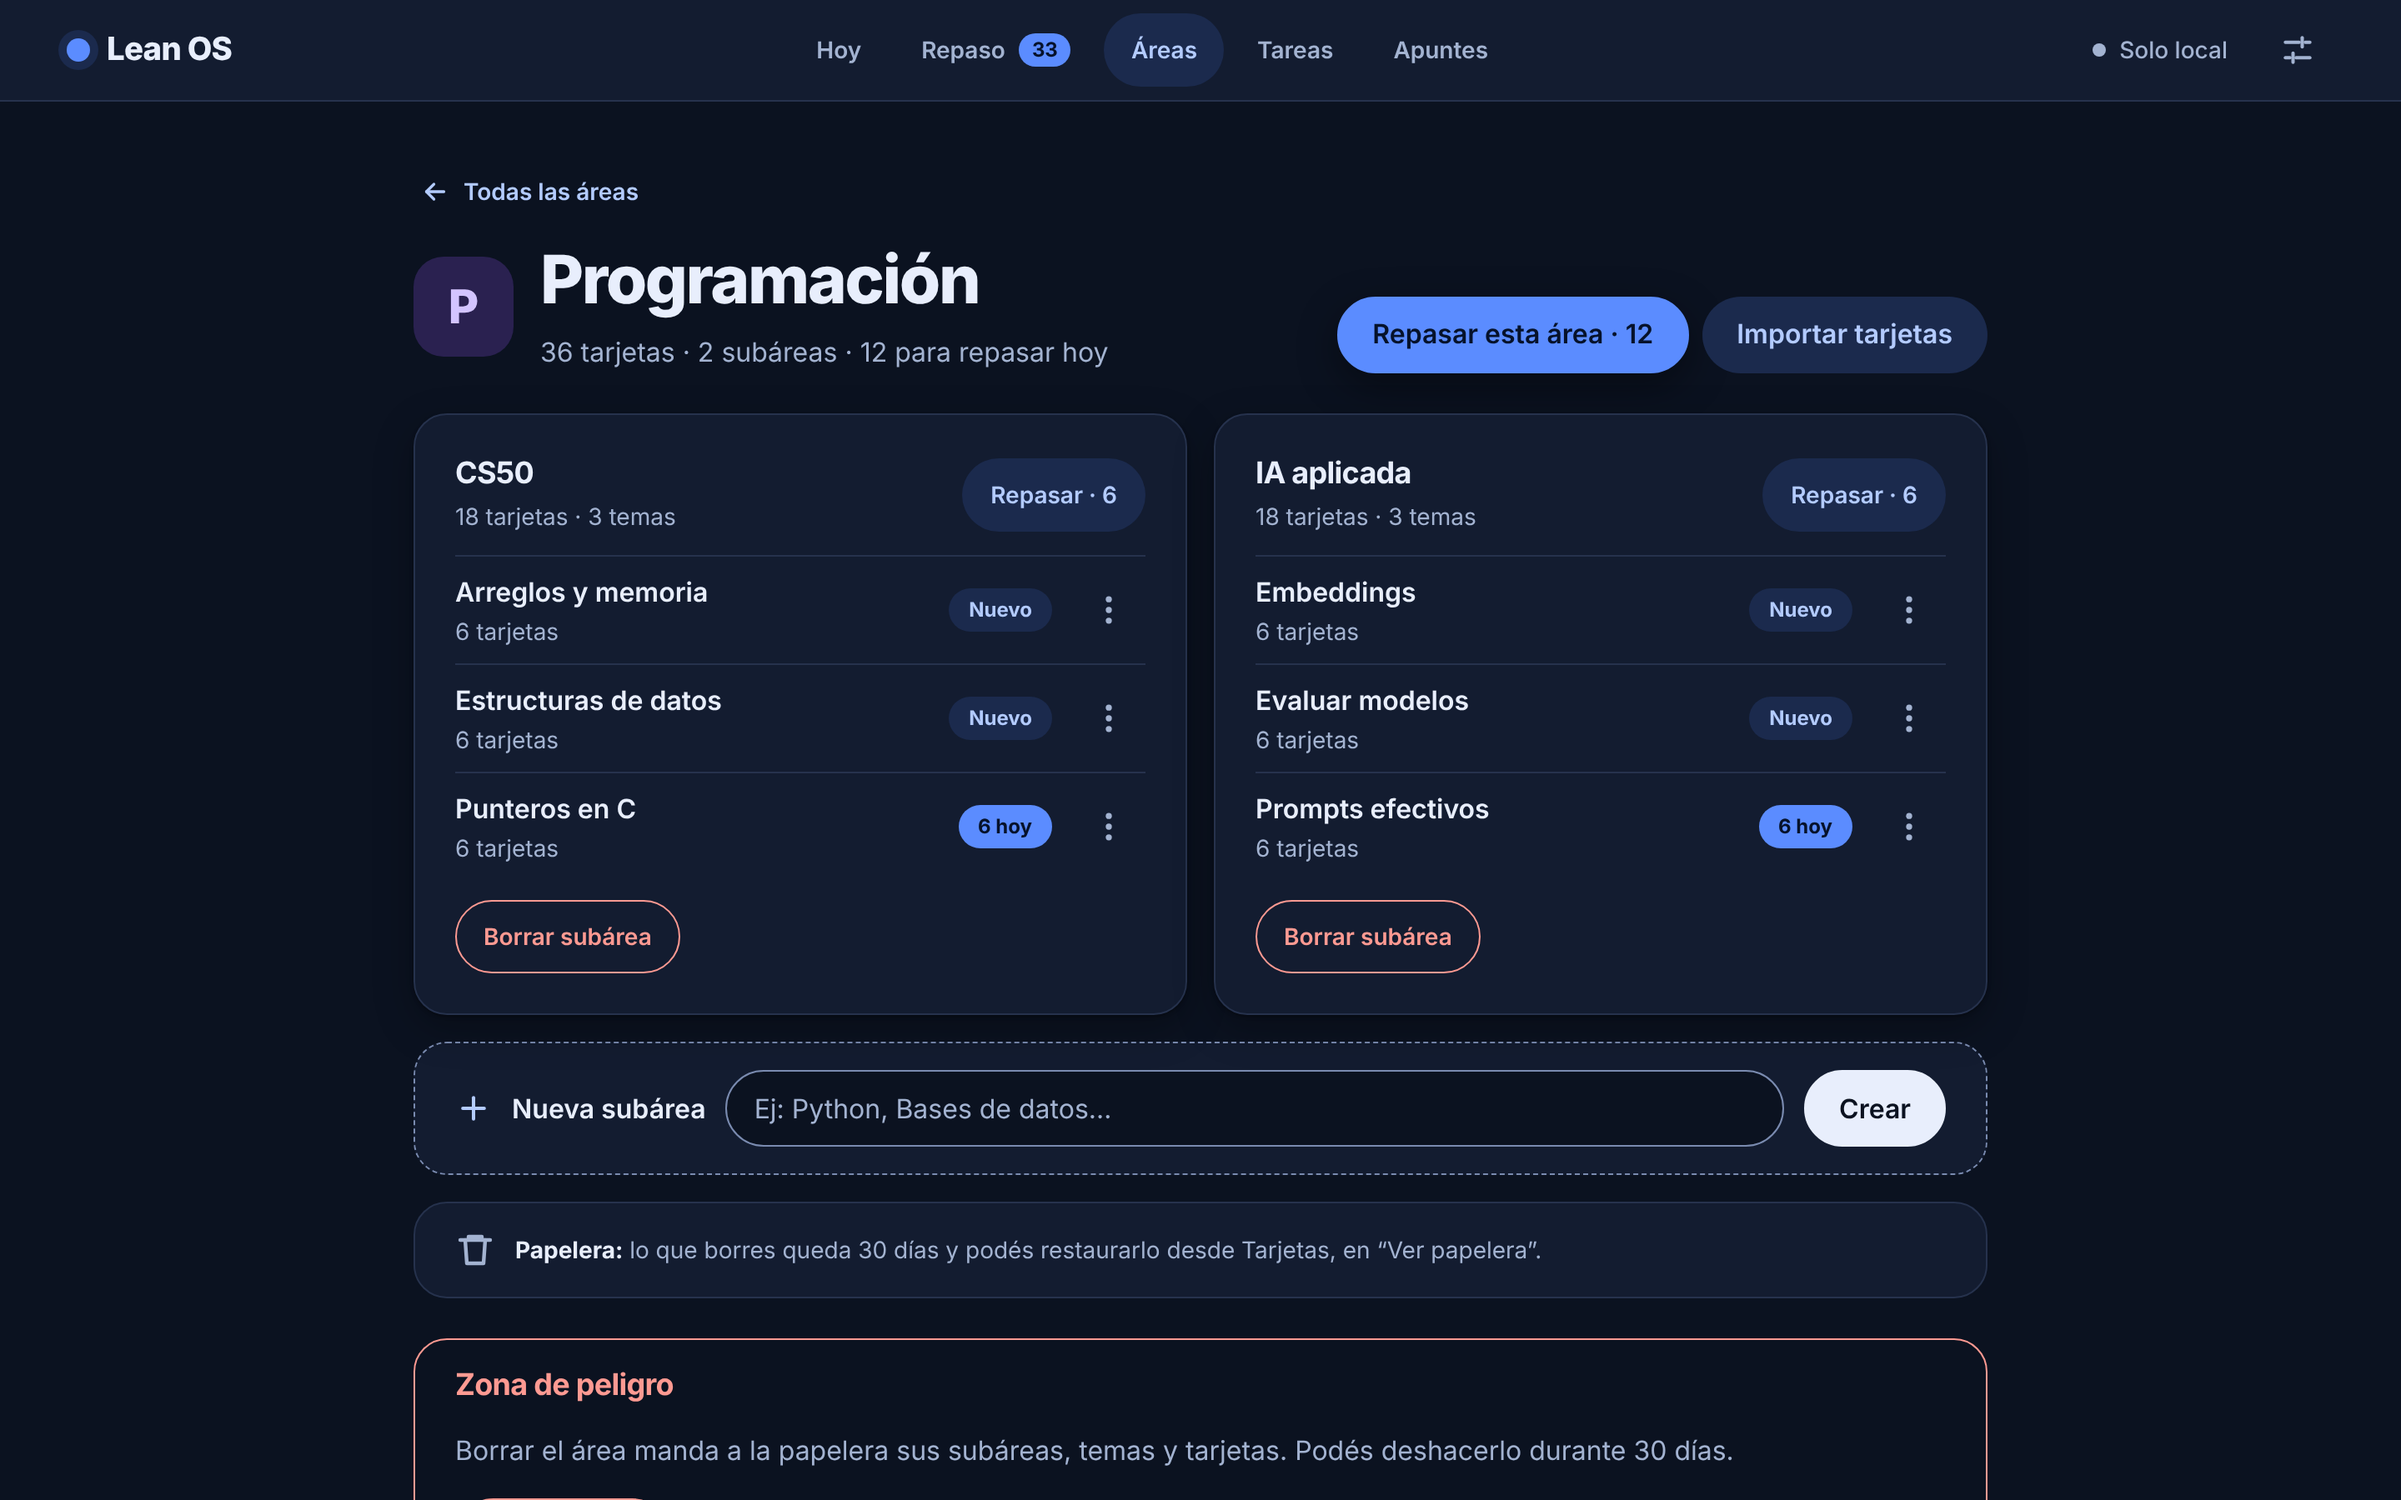
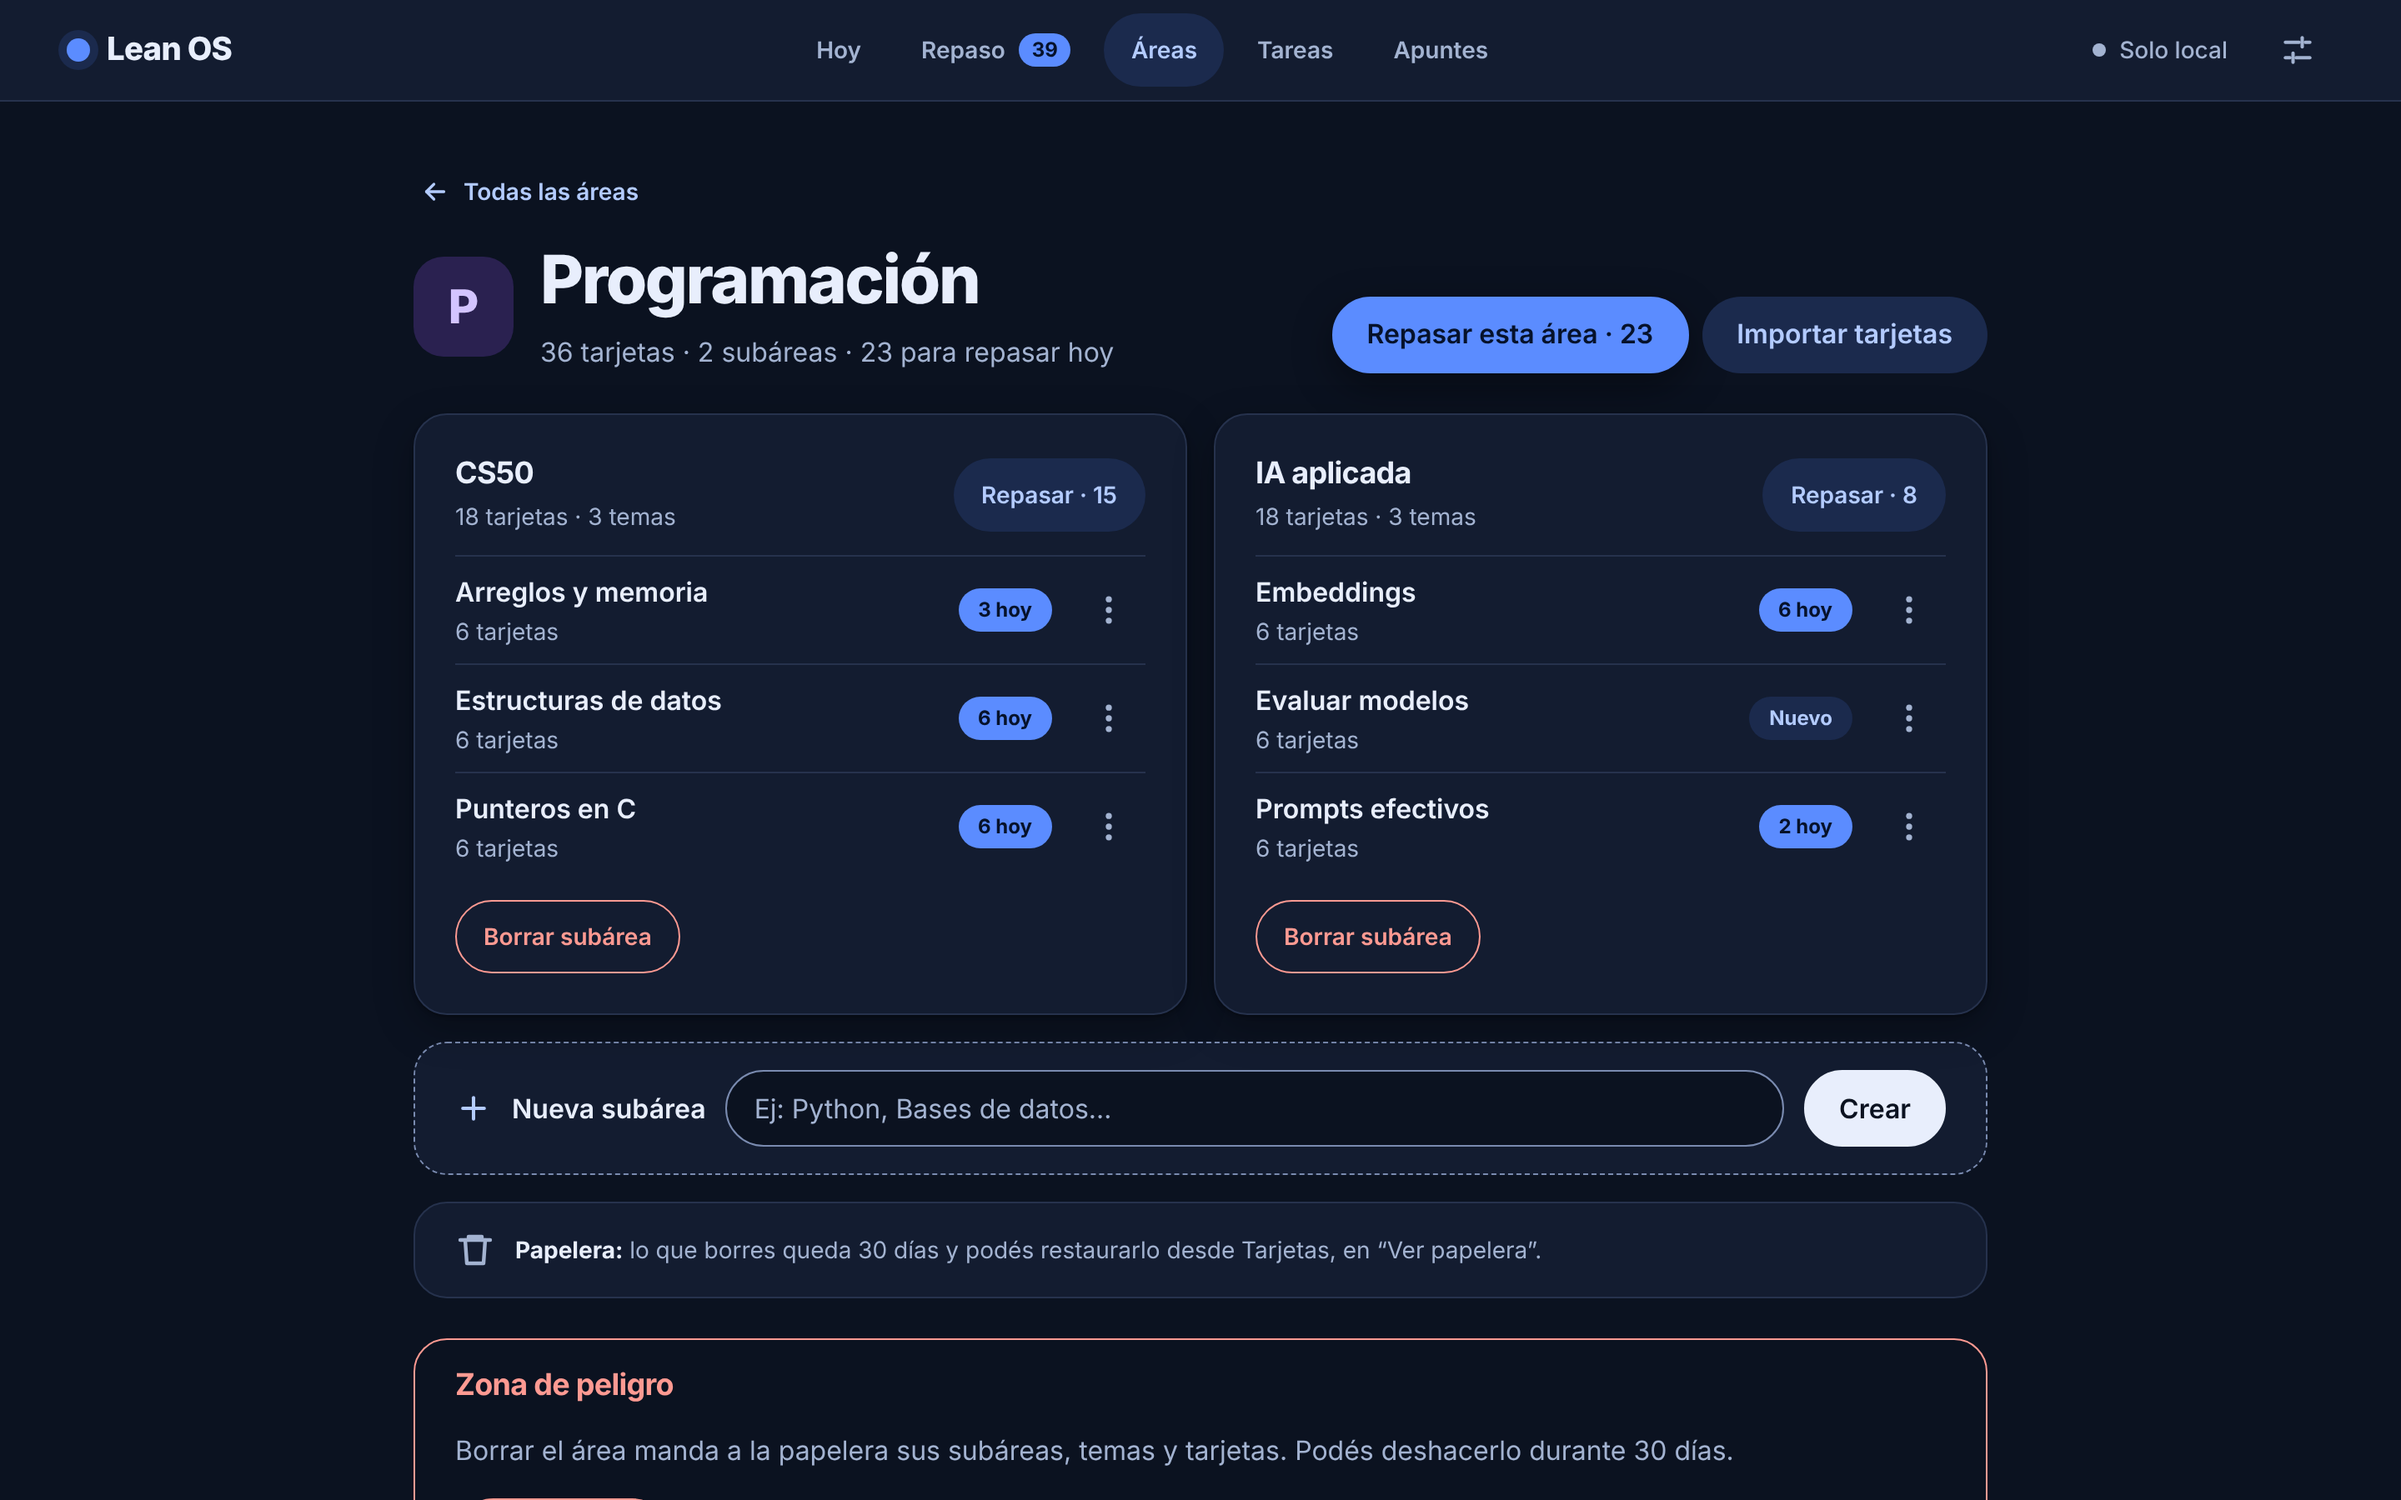
p-capturas ciclo 2: siembra con dominio variado y capturas con el diseño final
Claude-Session: https://claude.ai/code/session_0125b19gjcSwUR1phSHzgYem

diff --git a/scripts/capturas.ts b/scripts/capturas.ts
@@ -26,8 +26,8 @@ const TEMAS = ["claro", "oscuro"] as const;
 const PANTALLAS = ["hoy", "repaso", "areas", "area", "tarjetas", "tareas", "apuntes", "ajustes"] as const;
 const CON_CAPTURA = new Set<string>(["areas", "repaso", "area"]);
 const MINIMO = 44;
-/** Reloj fijo: los datos se importan y repasan el día 1 y se miran el día 2 (así hay tarjetas vencidas). */
-const DIA_SIEMBRA = "2026-11-12T12:00:00-03:00";
+/** Reloj fijo: los datos se importan en agosto, se repasan por meses y se miran el 23 de noviembre (así hay tarjetas dominadas, vencidas y nuevas). */
+const DIA_SIEMBRA = "2026-08-15T12:00:00-03:00";
 const DIA_VISTA = "2026-11-23T12:00:00-03:00";
 
 // ---------- datos de ejemplo ----------
@@ -137,7 +137,7 @@ const BLOQUES: Bloque[] = [
 // Se intercalan las áreas para que las tarjetas nuevas del día (tope diario) queden repartidas entre todas.
 const ORDEN = [0, 6, 8, 10, 3, 7, 9, 11, 1, 4, 2, 5];
 const JSON_IMPORTAR = ORDEN.map((i) => BLOQUES[i]!).map((b) => ({
-  tipo: "aprendizaje", fecha: "2026-11-12", area: b.area, tema: b.tema, resumen: b.resumen,
+  tipo: "aprendizaje", fecha: "2026-08-15", area: b.area, tema: b.tema, resumen: b.resumen,
   preguntas: b.preguntas.map(([p, r]) => ({ p, r, pista: "" })),
 }));
 
@@ -213,15 +213,38 @@ async function sembrar(p: Pagina, url: string, contexto: any): Promise<void> {
   await p.click("#importar-revisar");
   await p.click("#importar-confirmar");
   await p.waitForSelector("#importar-informe");
-  // Repasar algunas tarjetas ese primer día, con distintas calificaciones.
-  await p.locator("nav .nav-item", { hasText: "Repaso" }).click();
-  const notas = [/^Bien/, /^Fácil/, /^Difícil/, /^Bien/, /^Otra vez/, /^Bien/, /^Fácil/, /^Bien/, /^Difícil/, /^Bien/, /^Bien/, /^Fácil/, /^Bien/, /^Bien/];
-  for (const nota of notas) {
-    await p.locator("button", { hasText: /^Ver respuesta/ }).click();
-    await p.locator("button", { hasText: nota }).click();
-    await p.waitForTimeout(60);
+  // Varios meses de estudio: cada seis días se repasa lo que vence, con una política distinta por área,
+  // para que haya porcentajes de "Dominadas" y estados ("Al día" / "N para hoy") variados.
+  const POLITICA: { area: string; nota: RegExp; hasta: string; max: number }[] = [
+    { area: "Negocios", nota: /^Fácil/, hasta: "2026-11-23", max: 99 }, // siempre al día: casi todo dominado
+    { area: "Lógica", nota: /^Fácil/, hasta: "2026-10-30", max: 4 }, // dominado en buena parte, hoy vence
+    { area: "Programación", nota: /^Fácil/, hasta: "2026-10-30", max: 4 }, // poco dominado
+  ];
+  const inicio = Date.parse(DIA_SIEMBRA);
+  const fin = Date.parse(DIA_VISTA);
+  for (let t = inicio; t < fin - 3 * 86_400_000; t += 6 * 86_400_000) {
+    const dia = new Date(t).toISOString().slice(0, 10);
+    if (t !== inicio) {
+      await contexto.clock.setFixedTime(t);
+      await p.reload();
+      await p.waitForSelector("nav .nav-item");
+    }
+    for (const pol of POLITICA) {
+      if (dia > pol.hasta) continue;
+      await p.locator("nav .nav-item", { hasText: "Repaso" }).click();
+      await p.locator("button.chip", { hasText: new RegExp(`^${pol.area}`) }).click();
+      await p.waitForTimeout(150);
+      for (let n = 0; n < pol.max; n++) {
+        const ver = p.locator("button", { hasText: /^Ver respuesta/ });
+        if ((await ver.count()) === 0) break;
+        try {
+          await ver.first().click({ timeout: 4000 });
+          await p.locator("button", { hasText: pol.nota }).first().click({ timeout: 4000 });
+        } catch { break; } // la sesión terminó o se redibujó: se sigue con el próximo área
+        await p.waitForTimeout(60);
+      }
+    }
   }
-  // Pasan once días: lo repasado hace tiempo vence; lo nuevo sigue nuevo.
   await contexto.clock.setFixedTime(DIA_VISTA);
   await p.reload();
   await p.waitForSelector("nav .nav-item");

diff --git a/DECISIONES.md b/DECISIONES.md
@@ -446,3 +446,5 @@ Código en `src/compartido/areas.ts` (sin DOM, sin cambios de esquema); papelera
 - **Pruebas:** `pruebas/capturas.test.ts` (P15 y P18) solo leen los archivos. "P18" se agrega a `IDS_EXIGIBLES`. No se agrega "P15" porque falta cerrar la capa CSS/DOM con `p-rediseno`: lo agrega esa tarea o el cierre (la prueba "P15:" ya existe y pasa).
 - **Pendiente del cierre:** `p-rediseno` cambia estilos, así que las capturas y `medicion.json` se regeneran en el cierre (`npm run build && npm run capturas`) y se commitean. El revisor debe mirar las capturas finales y anotar su aprobación aquí (P18).
 - **Observaciones visuales (no se tocó nada):** "Dominadas" queda en 0% en todas las áreas (los datos no tienen intervalos de 21 días o más); "0 subáreas" en Idiomas (mejor omitirlo); en Repaso a 390 px la fila de chips se corta a la derecha (se desplaza).
+
+- **p-capturas ciclo 2 (siembra):** ahora la siembra simula meses de estudio: importa el 2026-08-15 y, cada 6 días hasta el 2026-11-23, repasa por la interfaz lo que vence con una política por área (Negocios siempre Fácil; Lógica y Programación Fácil con tope de 4 tarjetas por visita hasta fin de octubre; Idiomas sin repasar). Resultado en Áreas: Idiomas 0% (9 para hoy), Lógica 100% (7 para hoy), Negocios 100% (Al día), Programación 42% (23 para hoy). Capturas y medicion.json regenerados con el diseño final (2280 controles, 0 incumplimientos).
